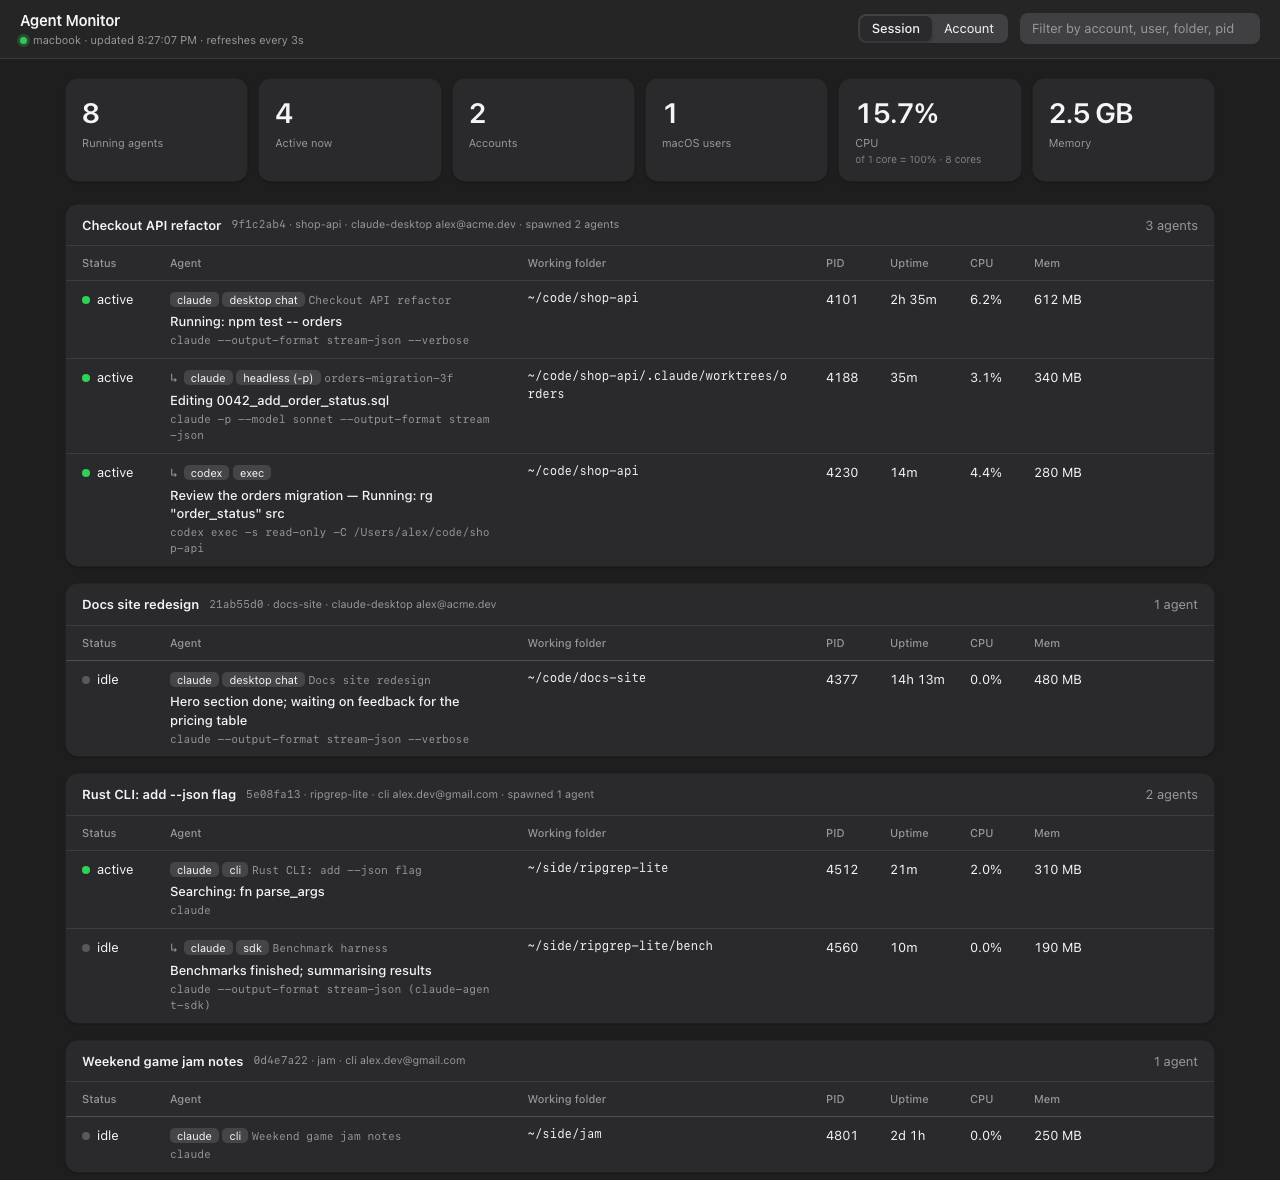
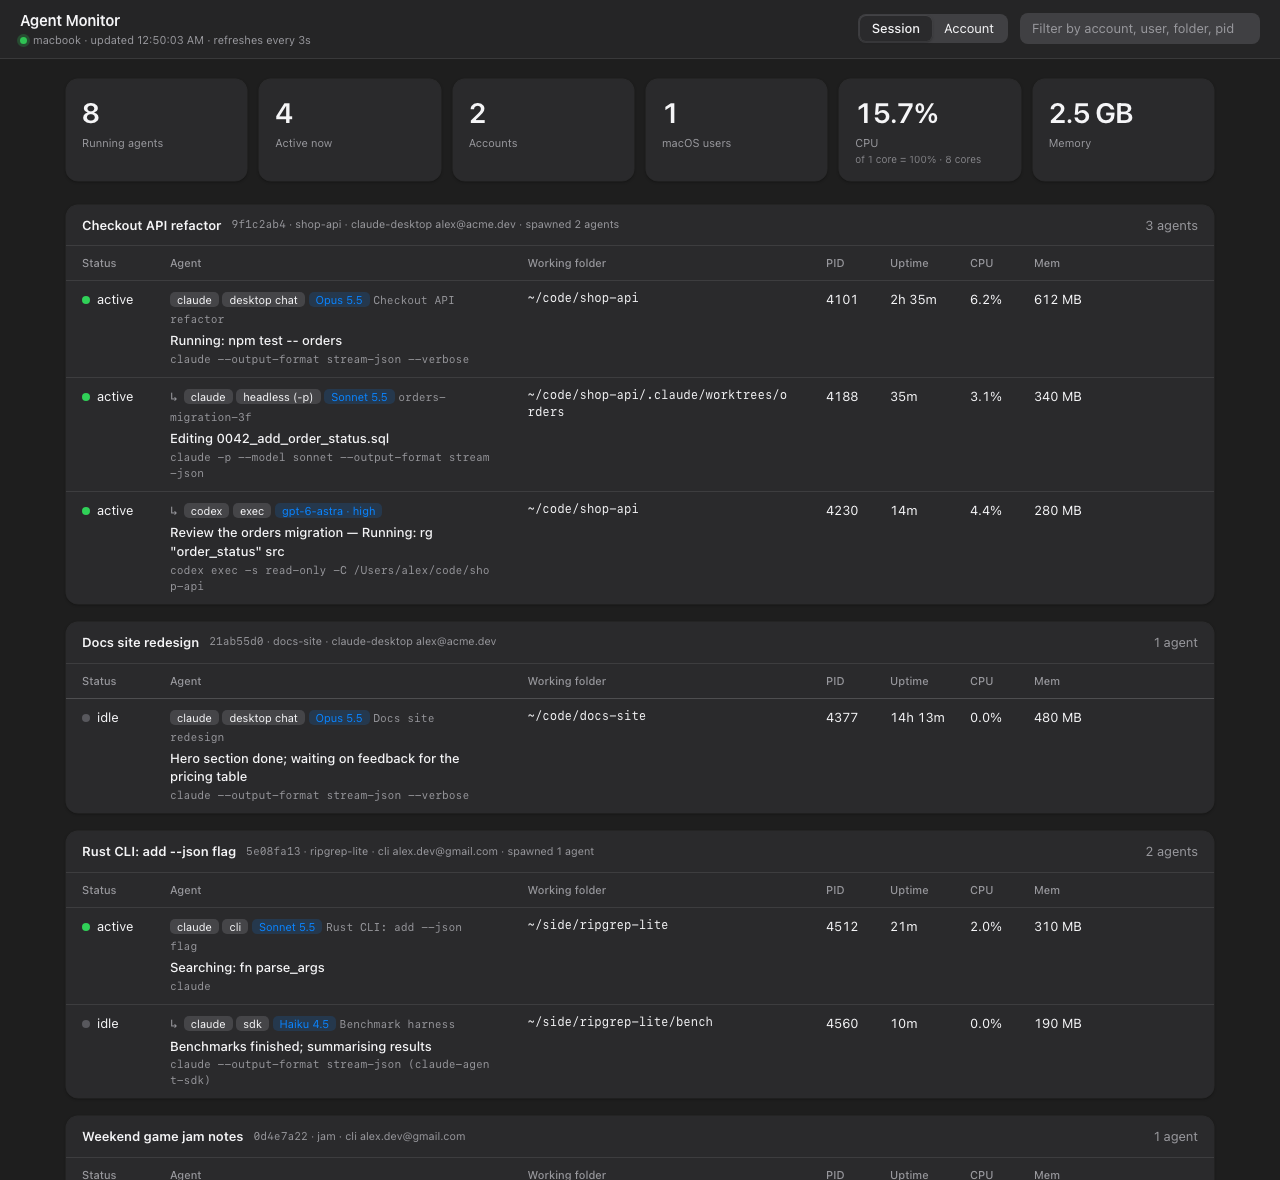
Show the model each agent is running
Claude: latest model in the transcript (falls back to Desktop's record or --model). Codex jobs: model and reasoning effort from the job log. Chip in the dashboard, model in the widget rows.

diff --git a/index.html b/index.html
@@ -43,6 +43,7 @@ tbody tr:hover{background:var(--hover)}
 tr:last-child td{border-bottom:0}
 th{color:var(--mute);font-size:11px;font-weight:500}
 td.num{font-variant-numeric:tabular-nums;white-space:nowrap}
+.chip.model{background:color-mix(in srgb,var(--accent) 16%,transparent);color:var(--accent)}
 .chip{background:var(--chip);border-radius:5px;padding:1px 7px;font-size:11px;white-space:nowrap}
 .dot{display:inline-block;width:8px;height:8px;border-radius:50%;margin-right:7px;background:var(--idle)}
 .dot.active{background:var(--ok)}
@@ -129,13 +130,13 @@ function renderWidget(){
   const act=all.filter(a=>a.status==="active").length,cpu=all.reduce((s,a)=>s+a.cpu,0),mem=all.reduce((s,a)=>s+a.mem_mb,0)/1024;
   const rows=Object.entries(byRoot).map(([id,rs])=>{const r=all.find(x=>x.pid===+id)||rs[0];
     const live=rs.filter(x=>x.status==="active"),lead=live.find(x=>x.summary)||rs.find(x=>x.summary)||r;
-    return {id:+id,live:live.length,n:rs.length,kids:rs.filter(x=>x.pid!==r.pid),title:r.title||`${r.kind} ${r.mode}`,line:lead.summary||`${lead.kind} ${lead.mode}`}})
+    return {id:+id,model:r.model,live:live.length,n:rs.length,kids:rs.filter(x=>x.pid!==r.pid),title:r.title||`${r.kind} ${r.mode}`,line:lead.summary||`${lead.kind} ${lead.mode}`}})
     .sort((a,b)=>b.live-a.live||b.n-a.n);
-  const kid=k=>`<div class="w-kid" style="margin-left:${Math.max(0,k.depth-1)*12}px"><span class="dot ${k.status==="active"?"active":""}"></span><span class="w-kt">${k.title?`${esc(k.title)}<i>${esc(k.kind)} ${esc(k.mode)}</i>`:esc(k.kind+" "+k.mode)}</span><span class="w-ks">${esc(k.summary||k.cmd)}</span></div>`;
+  const kid=k=>`<div class="w-kid" style="margin-left:${Math.max(0,k.depth-1)*12}px"><span class="dot ${k.status==="active"?"active":""}"></span><span class="w-kt">${k.title?`${esc(k.title)}<i>${esc(k.model||k.kind+" "+k.mode)}</i>`:esc(k.kind+" "+k.mode)}</span><span class="w-ks">${esc(k.summary||k.cmd)}</span></div>`;
   const y=$("w").scrollTop;
   $("w").innerHTML=`<div class="w-head"><div><div class="w-cap">Agent Monitor</div><div class="w-big"><b>${act}</b><span>active<br>of ${all.length}</span></div></div><div class="w-meta">CPU ${cpu.toFixed(0)}%<br>${mem.toFixed(1)} GB</div></div>`+
     (rows.length?rows.map(r=>{const has=r.kids.length>0,open=has&&openW.has(r.id);
-      return `<div class="w-row${has?" has":""}${open?" open":""}" ${has?`data-id="${r.id}"`:""}><span class="dot ${r.live?"active":""}"></span><span class="w-t">${esc(r.title)}</span><span class="w-n">${has?`<span class="w-chev">›</span>${r.n} agents`:""}</span><span class="w-s">${esc(r.line)}</span>${open?`<div class="w-kids">${r.kids.map(kid).join("")}</div>`:""}</div>`}).join(""):`<div class="w-empty">No running agents</div>`);
+      return `<div class="w-row${has?" has":""}${open?" open":""}" ${has?`data-id="${r.id}"`:""}><span class="dot ${r.live?"active":""}"></span><span class="w-t">${esc(r.title)}</span><span class="w-n">${[r.model,has?`<span class="w-chev">›</span>${r.n} agents`:""].filter(Boolean).join(" · ")}</span><span class="w-s">${esc(r.line)}</span>${open?`<div class="w-kids">${r.kids.map(kid).join("")}</div>`:""}</div>`}).join(""):`<div class="w-empty">No running agents</div>`);
   $("w").scrollTop=y}
 document.addEventListener("click",e=>{const row=e.target.closest(".w-row.has");if(!WIDGET||!row)return;
   const id=+row.dataset.id;openW.has(id)?openW.delete(id):openW.add(id);renderWidget()});
@@ -144,7 +145,7 @@ function render(){
   if(WIDGET)return renderWidget();
   const q=$("q").value.toLowerCase();
   const all=data.agents;
-  const list=all.filter(a=>!q||JSON.stringify([a.summary,a.title,a.account,a.user,a.cwd,a.pid,a.kind,a.mode]).toLowerCase().includes(q));
+  const list=all.filter(a=>!q||JSON.stringify([a.model,a.summary,a.title,a.account,a.user,a.cwd,a.pid,a.kind,a.mode]).toLowerCase().includes(q));
   const accounts=new Set(all.map(a=>a.account)), users=new Set(all.map(a=>a.user));
   const tiles=[["Running agents",all.length],["Active now",all.filter(a=>a.status==="active").length],
     ["Accounts",accounts.size],["macOS users",users.size],["CPU",all.reduce((s,a)=>s+a.cpu,0).toFixed(1)+"%",`of 1 core = 100% · ${data.cores||"?"} cores`],["Memory",(all.reduce((s,a)=>s+a.mem_mb,0)/1024).toFixed(1)+" GB"]];
@@ -164,7 +165,7 @@ function render(){
     <div class="scroll"><table><thead><tr><th>Status</th><th>Agent</th><th>Working folder</th><th>PID</th><th>Uptime</th><th>CPU</th><th>Mem</th><th></th></tr></thead><tbody>`+
     rows.map(a=>{const ind=grp==="session"&&a.depth?`<span class="tree" style="margin-left:${(a.depth-1)*16}px">↳</span>`:"";
       return `<tr><td><span class="dot ${a.status}"></span>${a.status}</td>
-      <td>${ind}<span class="chip">${esc(a.kind)}</span> <span class="chip">${esc(a.mode)}</span>${a.child&&grp==="account"?' <span class="chip">sub</span>':""}${a.session_id&&grp==="session"?` <span class="sid">${esc(a.title||a.session_id.slice(0,8))}</span>`:""}${a.summary?`<div class="say">${esc(a.summary)}</div>`:""}<div class="cmd">${esc(a.cmd)}</div></td>
+      <td>${ind}<span class="chip">${esc(a.kind)}</span> <span class="chip">${esc(a.mode)}</span>${a.model?` <span class="chip model">${esc(a.model)}</span>`:""}${a.child&&grp==="account"?' <span class="chip">sub</span>':""}${a.session_id&&grp==="session"?` <span class="sid">${esc(a.title||a.session_id.slice(0,8))}</span>`:""}${a.summary?`<div class="say">${esc(a.summary)}</div>`:""}<div class="cmd">${esc(a.cmd)}</div></td>
       <td class="path">${esc(short(a.cwd))}${a.config_dir?`<div class="cmd">config: ${esc(short(a.config_dir))}</div>`:""}</td>
       <td class="num">${a.pid}</td><td class="num">${dur(a.up)}</td><td class="num">${a.cpu.toFixed(1)}%</td><td class="num">${a.mem_mb} MB</td><td>${stopBtn(a)}</td></tr>`}).join("")+
     `</tbody></table></div></div>`).join(""):`<div class="empty">${all.length?"No agents match the filter.":"No running agents found."}</div>`;

diff --git a/server.py b/server.py
@@ -163,6 +163,7 @@ def transcript_state(home, sid):
                 f.seek(max(0, st.st_size - 300_000))
                 lines = f.read().decode("utf-8", "ignore").splitlines()[1:]
             now_doing = last_text = None
+            models = [m for m in re.findall(r'"model":"([^"]+)"', "\n".join(lines)) if not m.startswith("<")]
             for ln in reversed(lines):
                 if '"type":"assistant"' not in ln and '"type":"user"' not in ln:
                     continue
@@ -182,12 +183,12 @@ def transcript_state(home, sid):
                         last_text = _clip(b["text"].split("\n\n")[0] if len(b["text"]) > 400 else b["text"])
                 if now_doing or last_text:
                     break
-            val = (now_doing, last_text)
+            val = (now_doing, last_text, models[-1] if models else None)
             _cache[key] = ((st.st_mtime, st.st_size), val)
             return val
         except Exception:
             pass
-    return (None, None)
+    return (None, None, None)
 
 
 def desktop_summary(home, cli_sid):
@@ -262,11 +263,67 @@ def codex_job_line(pid):
     return " — ".join(x for x in (task, now) if x) or None
 
 
+def pretty_model(m):
+    """claude-opus-5-5 -> 'Opus 5.5'; aliases like 'sonnet' -> 'Sonnet'; anything else is shown as-is."""
+    if not m:
+        return None
+    m = re.sub(r"\[.*?\]$", "", m.strip())
+    g = re.match(r"claude-([a-z]+)-(\d+)(?:-(\d{1,2}))?(?:-\d{8})?$", m)
+    if g:
+        return f"{g.group(1).capitalize()} {g.group(2)}" + (f".{g.group(3)}" if g.group(3) else "")
+    g = re.match(r"claude-(\d+)(?:-(\d{1,2}))?-([a-z]+)", m)  # old order: claude-3-5-sonnet
+    if g:
+        return f"{g.group(3).capitalize()} {g.group(1)}" + (f".{g.group(2)}" if g.group(2) else "")
+    return m.capitalize() if m in ("sonnet", "opus", "haiku", "fable") else m
+
+
+def desktop_model(home, cli_sid):
+    base = os.path.join(home, "Library", "Application Support", "Claude", "claude-code-sessions")
+    for p in glob.glob(os.path.join(base, "*", "*", "local_*.json")):
+        d = read_json(p) or {}
+        if d.get("cliSessionId") == cli_sid:
+            return d.get("model")
+    return None
+
+
+def model_of(r, sf, home):
+    """Model an agent is running: latest model in its transcript, else Desktop's record, else its --model flag."""
+    cmd = r["full_cmd"]
+    if r["kind"] == "claude":
+        sid = (sf or {}).get("sessionId")
+        m = (transcript_state(home, sid)[2] if sid else None) or (desktop_model(home, sid) if sid else None)
+        if not m:
+            g = re.search(r"--model[ =](\S+)", cmd)
+            m = g.group(1) if g else None
+        return pretty_model(m)
+    if r["kind"] == "codex" and " exec " in cmd:
+        model = effort = None
+        _, log = std_files(r["pid"])
+        try:
+            if log:
+                with open(log, errors="ignore") as f:
+                    head = f.read(3000)
+                g = re.search(r"^model:\s*(\S+)", head, re.M)
+                model = g.group(1) if g else None
+                g = re.search(r"^reasoning effort:\s*(\S+)", head, re.M)
+                effort = g.group(1) if g else None
+        except OSError:
+            pass
+        if not model:
+            g = re.search(r'-c\s+model="?([^\s"]+)', cmd) or re.search(r"\s-m\s+(\S+)", cmd)
+            model = g.group(1) if g else None
+        if not effort:
+            g = re.search(r"model_reasoning_effort=\"?(\w+)", cmd)
+            effort = g.group(1) if g else None
+        return " · ".join(x for x in (model, effort) if x) or None
+    return None
+
+
 def one_liner(r, sf, home):
     """One line on what this agent is doing, from local files only (nothing leaves the machine)."""
     if r["kind"] == "claude" and sf:
         sid = sf.get("sessionId")
-        doing, last = transcript_state(home, sid) if sid else (None, None)
+        doing, last, _ = transcript_state(home, sid) if sid else (None, None, None)
         if sf.get("status") == "busy" or r["status"] == "active":
             if doing:
                 return doing
@@ -383,7 +440,9 @@ def scan():
         r["cmd"] = re.sub(r"^.*?/(claude|codex|gemini|aider)(?= |$)", r"\1", r["cmd"])[:240]
         if r["_sf"] and r["_sf"].get("status") == "busy":
             r["status"] = "active"
-        r["summary"] = one_liner(r, r.pop("_sf"), account_home(r["user"]))
+        sf_, home_ = r.pop("_sf"), account_home(r["user"])
+        r["summary"] = one_liner(r, sf_, home_)
+        r["model"] = model_of(r, sf_, home_)
         del r["full_cmd"]
     _termed.intersection_update(pids)
     for r in rows:
@@ -446,20 +505,20 @@ def scan():
 
 def demo_agents():
     """Synthetic data for screenshots (python3 server.py --demo)."""
-    def a(pid, parent, root, depth, acct, kind, mode, status, title, summary, cwd, up, cpu, mem, sid=None, ep=None, user="alex", cmd=None):
+    def a(pid, parent, root, depth, acct, kind, mode, status, title, summary, cwd, up, cpu, mem, sid=None, ep=None, user="alex", cmd=None, model=None):
         return dict(pid=pid, ppid=parent or 1, user=user, up=up, cpu=cpu, ct=0, mem_mb=mem, kind=kind, cmd=cmd or kind,
                     cwd=cwd, config_dir=None, account=acct, child=bool(parent), mode=mode, status=status,
                     session_id=sid, entrypoint=ep, title=title, summary=summary, parent_pid=parent,
-                    root_pid=root, depth=depth)
+                    root_pid=root, depth=depth, model=model)
     w, g = "alex@acme.dev", "alex.dev@gmail.com"
     return [
-        a(4101, None, 4101, 0, w, "claude", "desktop chat", "active", "Checkout API refactor", "Running: npm test -- orders", "/Users/alex/code/shop-api", 9300, 6.2, 612, "9f1c2ab4", "claude-desktop", cmd="claude --output-format stream-json --verbose"),
-        a(4188, 4101, 4101, 1, w, "claude", "headless (-p)", "active", "orders-migration-3f", "Editing 0042_add_order_status.sql", "/Users/alex/code/shop-api/.claude/worktrees/orders", 2100, 3.1, 340, "c77d90e1", "claude-desktop", cmd="claude -p --model sonnet --output-format stream-json"),
-        a(4230, 4101, 4101, 1, "alex@acme.dev", "codex", "exec", "active", None, "Review the orders migration — Running: rg \"order_status\" src", "/Users/alex/code/shop-api", 840, 4.4, 280, cmd="codex exec -s read-only -C /Users/alex/code/shop-api"),
-        a(4377, None, 4377, 0, w, "claude", "desktop chat", "idle", "Docs site redesign", "Hero section done; waiting on feedback for the pricing table", "/Users/alex/code/docs-site", 51200, 0.0, 480, "21ab55d0", "claude-desktop", cmd="claude --output-format stream-json --verbose"),
-        a(4512, None, 4512, 0, g, "claude", "cli", "active", "Rust CLI: add --json flag", "Searching: fn parse_args", "/Users/alex/side/ripgrep-lite", 1300, 2.0, 310, "5e08fa13", "cli", cmd="claude"),
-        a(4560, 4512, 4512, 1, g, "claude", "sdk", "idle", "Benchmark harness", "Benchmarks finished; summarising results", "/Users/alex/side/ripgrep-lite/bench", 600, 0.0, 190, "b2d61c9e", "sdk-ts", cmd="claude --output-format stream-json (claude-agent-sdk)"),
-        a(4801, None, 4801, 0, g, "claude", "cli", "idle", "Weekend game jam notes", None, "/Users/alex/side/jam", 86400 * 2 + 3600, 0.0, 250, "0d4e7a22", "cli", cmd="claude"),
+        a(4101, None, 4101, 0, w, "claude", "desktop chat", "active", "Checkout API refactor", "Running: npm test -- orders", "/Users/alex/code/shop-api", 9300, 6.2, 612, "9f1c2ab4", "claude-desktop", cmd="claude --output-format stream-json --verbose", model="Opus 5.5"),
+        a(4188, 4101, 4101, 1, w, "claude", "headless (-p)", "active", "orders-migration-3f", "Editing 0042_add_order_status.sql", "/Users/alex/code/shop-api/.claude/worktrees/orders", 2100, 3.1, 340, "c77d90e1", "claude-desktop", cmd="claude -p --model sonnet --output-format stream-json", model="Sonnet 5.5"),
+        a(4230, 4101, 4101, 1, "alex@acme.dev", "codex", "exec", "active", None, "Review the orders migration — Running: rg \"order_status\" src", "/Users/alex/code/shop-api", 840, 4.4, 280, cmd="codex exec -s read-only -C /Users/alex/code/shop-api", model="gpt-6-astra · high"),
+        a(4377, None, 4377, 0, w, "claude", "desktop chat", "idle", "Docs site redesign", "Hero section done; waiting on feedback for the pricing table", "/Users/alex/code/docs-site", 51200, 0.0, 480, "21ab55d0", "claude-desktop", cmd="claude --output-format stream-json --verbose", model="Opus 5.5"),
+        a(4512, None, 4512, 0, g, "claude", "cli", "active", "Rust CLI: add --json flag", "Searching: fn parse_args", "/Users/alex/side/ripgrep-lite", 1300, 2.0, 310, "5e08fa13", "cli", cmd="claude", model="Sonnet 5.5"),
+        a(4560, 4512, 4512, 1, g, "claude", "sdk", "idle", "Benchmark harness", "Benchmarks finished; summarising results", "/Users/alex/side/ripgrep-lite/bench", 600, 0.0, 190, "b2d61c9e", "sdk-ts", cmd="claude --output-format stream-json (claude-agent-sdk)", model="Haiku 4.5"),
+        a(4801, None, 4801, 0, g, "claude", "cli", "idle", "Weekend game jam notes", None, "/Users/alex/side/jam", 86400 * 2 + 3600, 0.0, 250, "0d4e7a22", "cli", cmd="claude", model="Sonnet 5.5"),
         a(5003, None, 5003, 0, "alex@acme.dev", "codex", "app-server", "idle", None, "Codex app server (background service)", "/Users/alex/code/shop-api", 86400 * 5, 0.0, 120, cmd="codex app-server --listen unix://"),
     ]
 

diff --git a/README.md b/README.md
@@ -15,6 +15,7 @@ A local dashboard for every AI coding agent running on your Mac: Claude Code, Cl
 - **Chat names.** Sessions show the name you gave them in Claude Desktop, or the auto-generated title.
 - **A one-line "what is it doing".** For Claude, the tool call in progress (`Running: npm test`, `Editing schema.sql`) or the last status line. For Codex jobs, the task and the command it is running.
 - **Several accounts at once.** Each Claude process reports the login it runs under, and Codex reports its own.
+- **Model per agent.** `Opus 5.5`, `Sonnet 5.5`, `Haiku 4.5`, or `gpt-6-astra · high` for Codex. It is the model of the latest reply in the transcript, so a mid-session `/model` switch shows up.
 - **Accurate labels.** `desktop chat`, `cli`, `headless (-p)`, `sdk`, plus Codex `exec` and `app-server`.
 - **Live status.** Active or idle, with CPU, memory and uptime per agent, plus total agent CPU and memory at the top, refreshed every 3 seconds.
 - **Stop button.** Click **Stop**, then **Confirm?**, to send SIGTERM to an agent. If it is still running afterwards the button becomes **Force quit** (SIGKILL). Only your own processes get a button.
@@ -58,6 +59,7 @@ Everything is read from local files and the process table, and nothing leaves yo
 | Owning session | Parent process chain, falling back to the `CLAUDE_PID` / `CLAUDE_CODE_SESSION_ID` a child inherits |
 | Chat name, mode | `~/.claude/sessions/<pid>.json`, Claude Desktop's session store, transcript titles |
 | Claude activity | Tail of the session transcript in `~/.claude/projects/` |
+| Model | Latest `model` in the Claude transcript, else Claude Desktop's session record or `--model`; Codex job log header |
 | Claude account | `CLAUDE_CODE_USER_EMAIL` in the process environment, else `~/.claude.json` |
 | Codex activity | The job's brief (stdin) and live log (stdout), found with `lsof` |
 | Codex account | `~/.codex/auth.json` |
